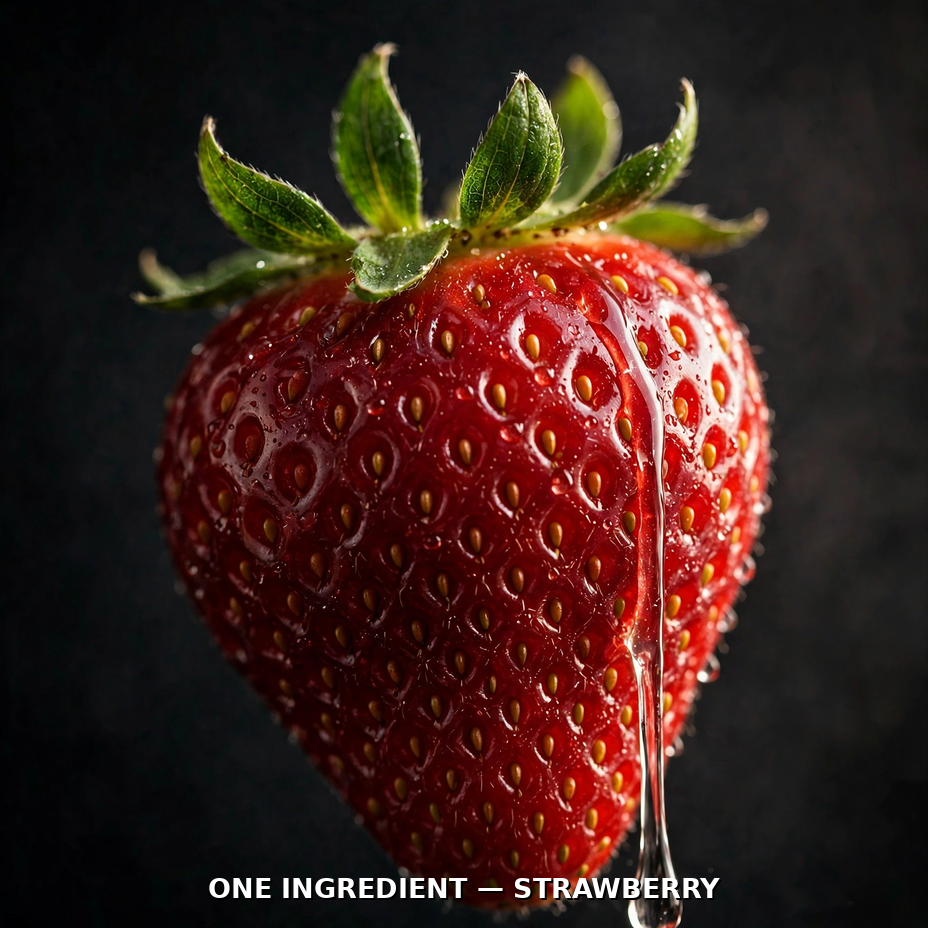
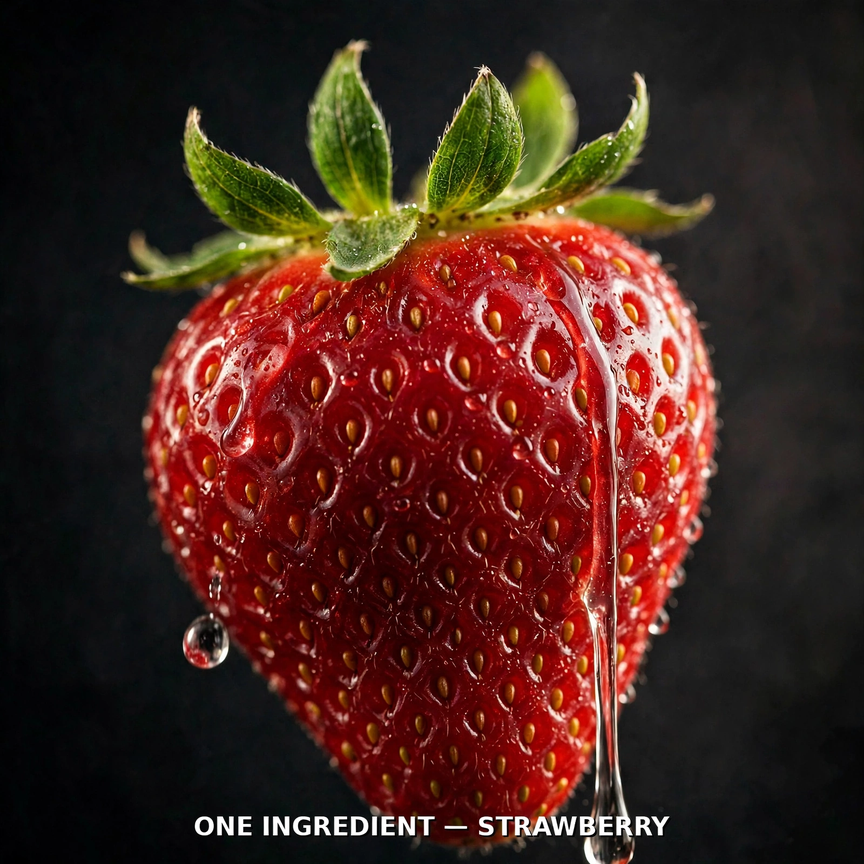
Refine strawberry render: sliding droplet + shoulder highlight, truecolour check

diff --git a/main.ts b/main.ts
@@ -1,6 +1,8 @@
 // One Ingredient — Strawberry.
 // A program that writes one picture of food to /output/entry.png: a single
 // ripe strawberry, macro, glossy, fresh — one ingredient, nothing else.
+// Refined render: a glistening droplet slides down the skin and a soft
+// highlight sits on the shoulder, so the berry reads fresh at a glance.
 // The picture is the program's payload: a PNG rendered during the build and
 // shipped beside this entrypoint as strawberry.png. The program validates it
 // against the competition's caps and writes it out byte-for-byte, so every
@@ -26,6 +28,12 @@ const width = png.readUInt32BE(16);
 const height = png.readUInt32BE(20);
 if (width > MAX_SIDE || height > MAX_SIDE) {
   throw new Error(`entry.png is ${width}x${height}, over the 1024x1024 cap`);
+}
+// The render must be truecolour (colour type 2 or 6): a paletted or greyscale
+// source would wash out the berry's reds and the droplet highlight.
+const colorType = png[25];
+if (colorType !== 2 && colorType !== 6) {
+  throw new Error(`entry.png colour type ${colorType}, expected truecolour 2 or 6`);
 }
 
 mkdirSync(OUTPUT_DIR, { recursive: true });
